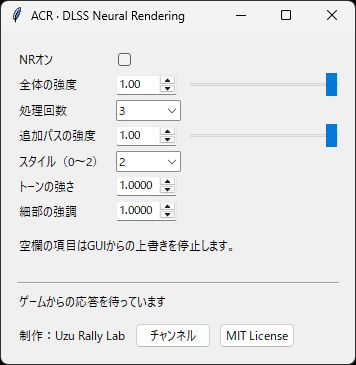
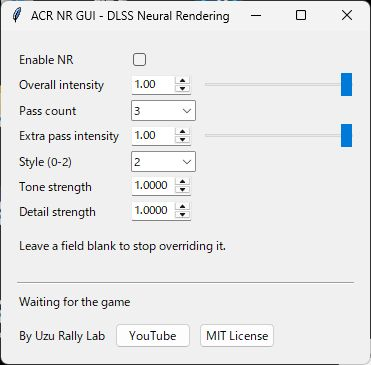
Translate GUI and documentation into English

diff --git a/README.md b/README.md
@@ -1,31 +1,32 @@
 # ACR NR GUI
 
-Assetto Corsa Rally v0.7 の DLSS Neural Rendering をプレイ中に調整する非公式ツールです。NRのオン・オフ、全体の強度、処理回数、追加パスの強度、スタイル、トーン、細部の強調を変更できます。
+An unofficial tool for adjusting DLSS Neural Rendering in Assetto Corsa Rally v0.7 while the game is running. Toggle Neural Rendering and adjust the intensity, pass count, extra pass intensity, style, tone, and detail.
 
-## 適用前・適用後
+## Before and after
 
-| 適用前 | 適用後 |
+| Before | After |
 | --- | --- |
-| [![NR設定の適用前](docs/images/before.png)](docs/images/before.png) | [![NR設定の適用後](docs/images/after.png)](docs/images/after.png) |
+| [![Before applying the NR settings](docs/images/before.png)](docs/images/before.png) | [![After applying the NR settings](docs/images/after.png)](docs/images/after.png) |
 
-画像をクリックすると拡大できます。
+Click either image to view it at full size.
 
-## アプリのスクリーンショット
+## App screenshot
 
-![ACR NR GUIの調整画面](docs/images/app.jpg)
+![ACR NR GUI settings window](docs/images/app.jpg)
 
-## 導入
+## Installation
 
-1. Windows版Assetto Corsa Rally、NRが動く環境、UE4SS、Python 3.13（Windows用ランチャーとTkinter付き）を用意します。
-2. ゲームを終了し、`mod/ACRNeuralRendering` をゲームの `acr/Binaries/Win64/ue4ss/Mods` にコピーします。
-3. Steamからゲームを起動し、展開したフォルダーで `ACR-NR-GUI.cmd` を開きます。
+1. Install Assetto Corsa Rally for Windows, UE4SS, and Python 3.13 with the Windows launcher and Tkinter. Check that Neural Rendering works on your system.
+2. Download and extract the ZIP from [Releases](https://github.com/uzuramcrae/ACR-NR-GUI/releases/latest).
+3. Close the game and copy `mod/ACRNeuralRendering` into the game's `acr/Binaries/Win64/ue4ss/Mods` folder.
+4. Start the game through Steam and open `ACR-NR-GUI.cmd` from the extracted folder.
 
-GUI下部にゲームから読み返した値が表示されます。処理回数を増やすとGPU負荷が上がります。トーン・細部・スタイルを空欄にすると、その項目の上書きを停止します。
+The bottom of the window shows the values read back from the game. A higher pass count increases GPU load. Leave Style, Tone strength, or Detail strength blank to stop overriding that setting.
 
-アンインストールするにはゲームを終了し、配置した `ACRNeuralRendering` フォルダーを取り外します。
+To uninstall, close the game and remove the installed `ACRNeuralRendering` folder.
 
-## クレジット
+## Credits and license
 
-このMODを動画や配信で紹介する際は、概要欄などにチャンネルへのリンクを記載していただけると嬉しいです。 [Uzu Rally Lab](https://www.youtube.com/@Uzuramcrae)
+If you feature this mod in a video or stream, a link to [Uzu Rally Lab](https://www.youtube.com/@Uzuramcrae) in the description is appreciated.
 
-コードは [MIT License](LICENSE) で公開しています。
+The code is available under the [MIT License](LICENSE).
